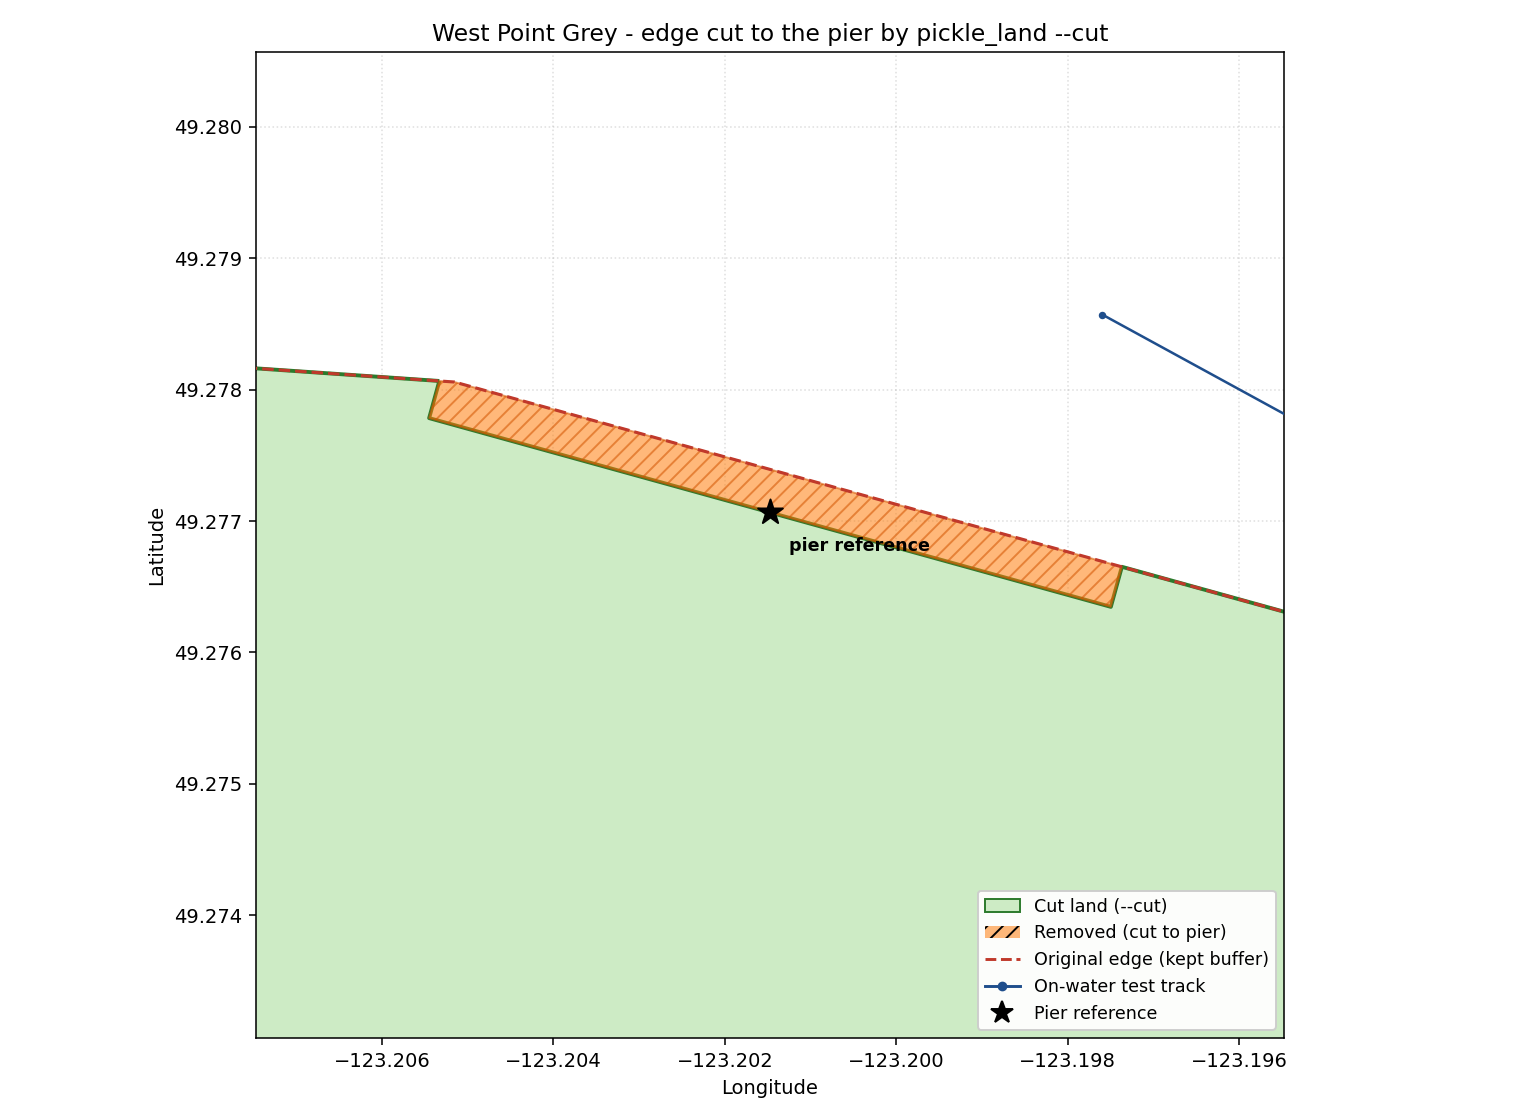
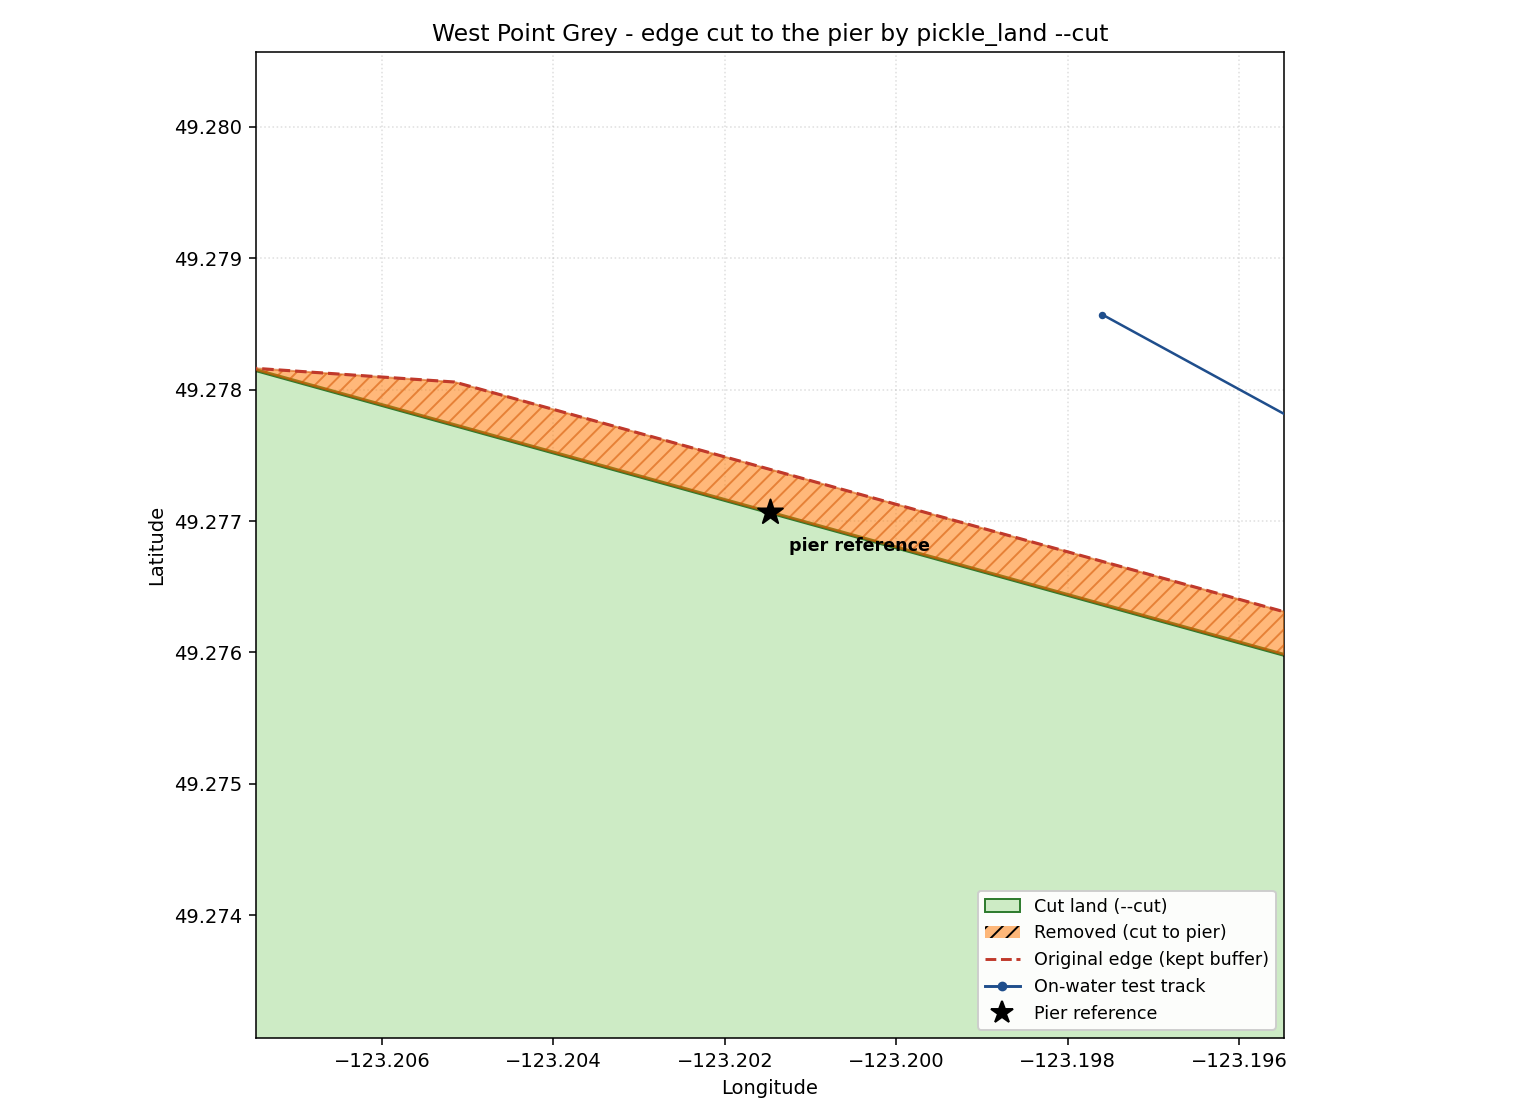
Increased the land cut by 1km

Changed region(s): [[0.7169, 0.5, 0.8416, 0.5938], [0.1558, 0.3125, 0.2805, 0.375]]

diff --git a/src/local_pathfinding/land/pickle_land_data.py b/src/local_pathfinding/land/pickle_land_data.py
@@ -62,7 +62,7 @@ def cut_edge_to_point(
     polygon: Polygon,
     target_lat: float,
     target_lon: float,
-    cut_width_m: float = 600.0,
+    cut_width_m: float = 1000.0,
     working_crs: pyproj.CRS = UTM_10N,
 ) -> Polygon:
     """Cut a local notch into a polygon's edge so the edge passes through a target point.